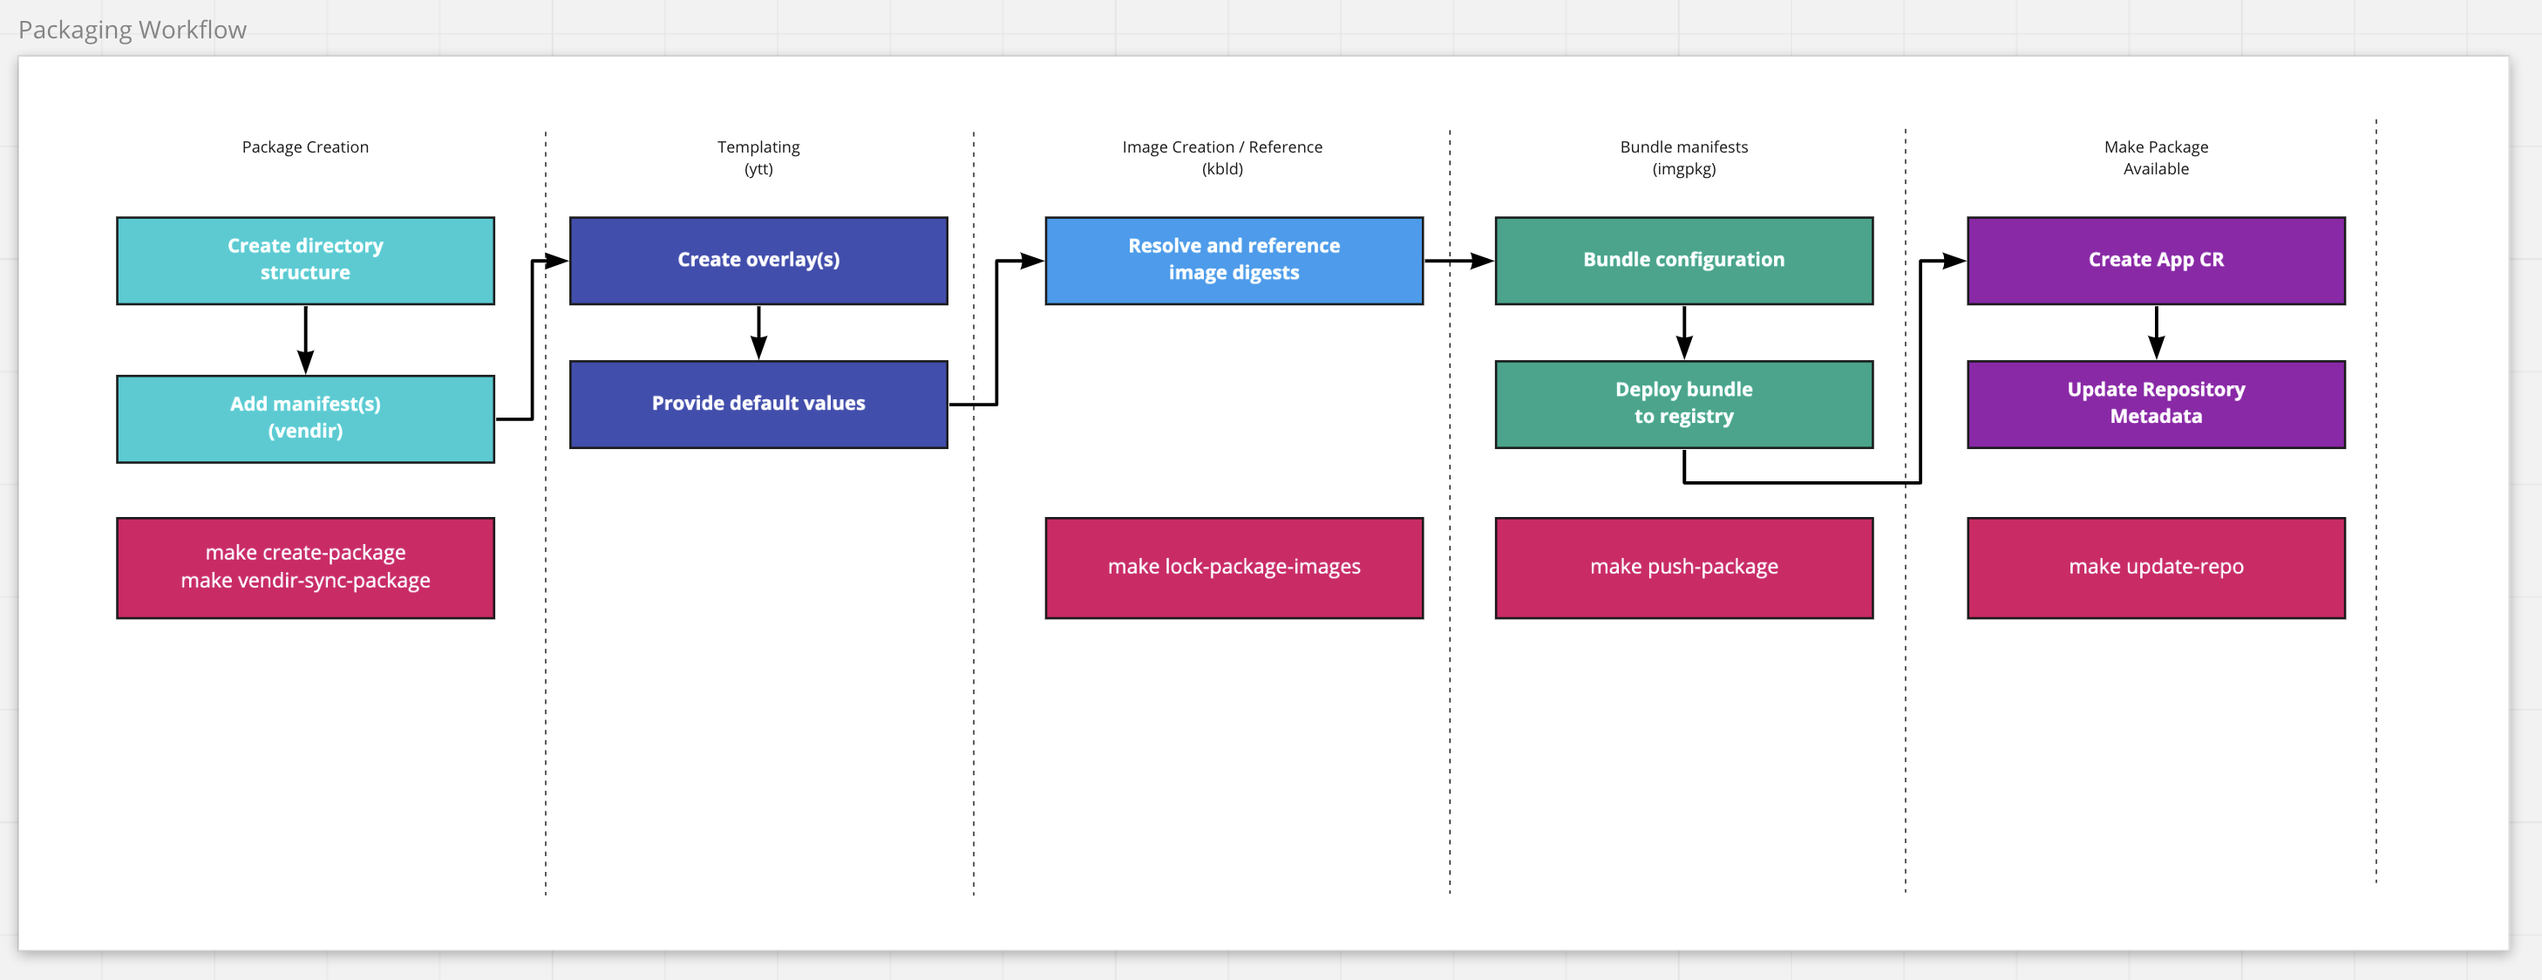
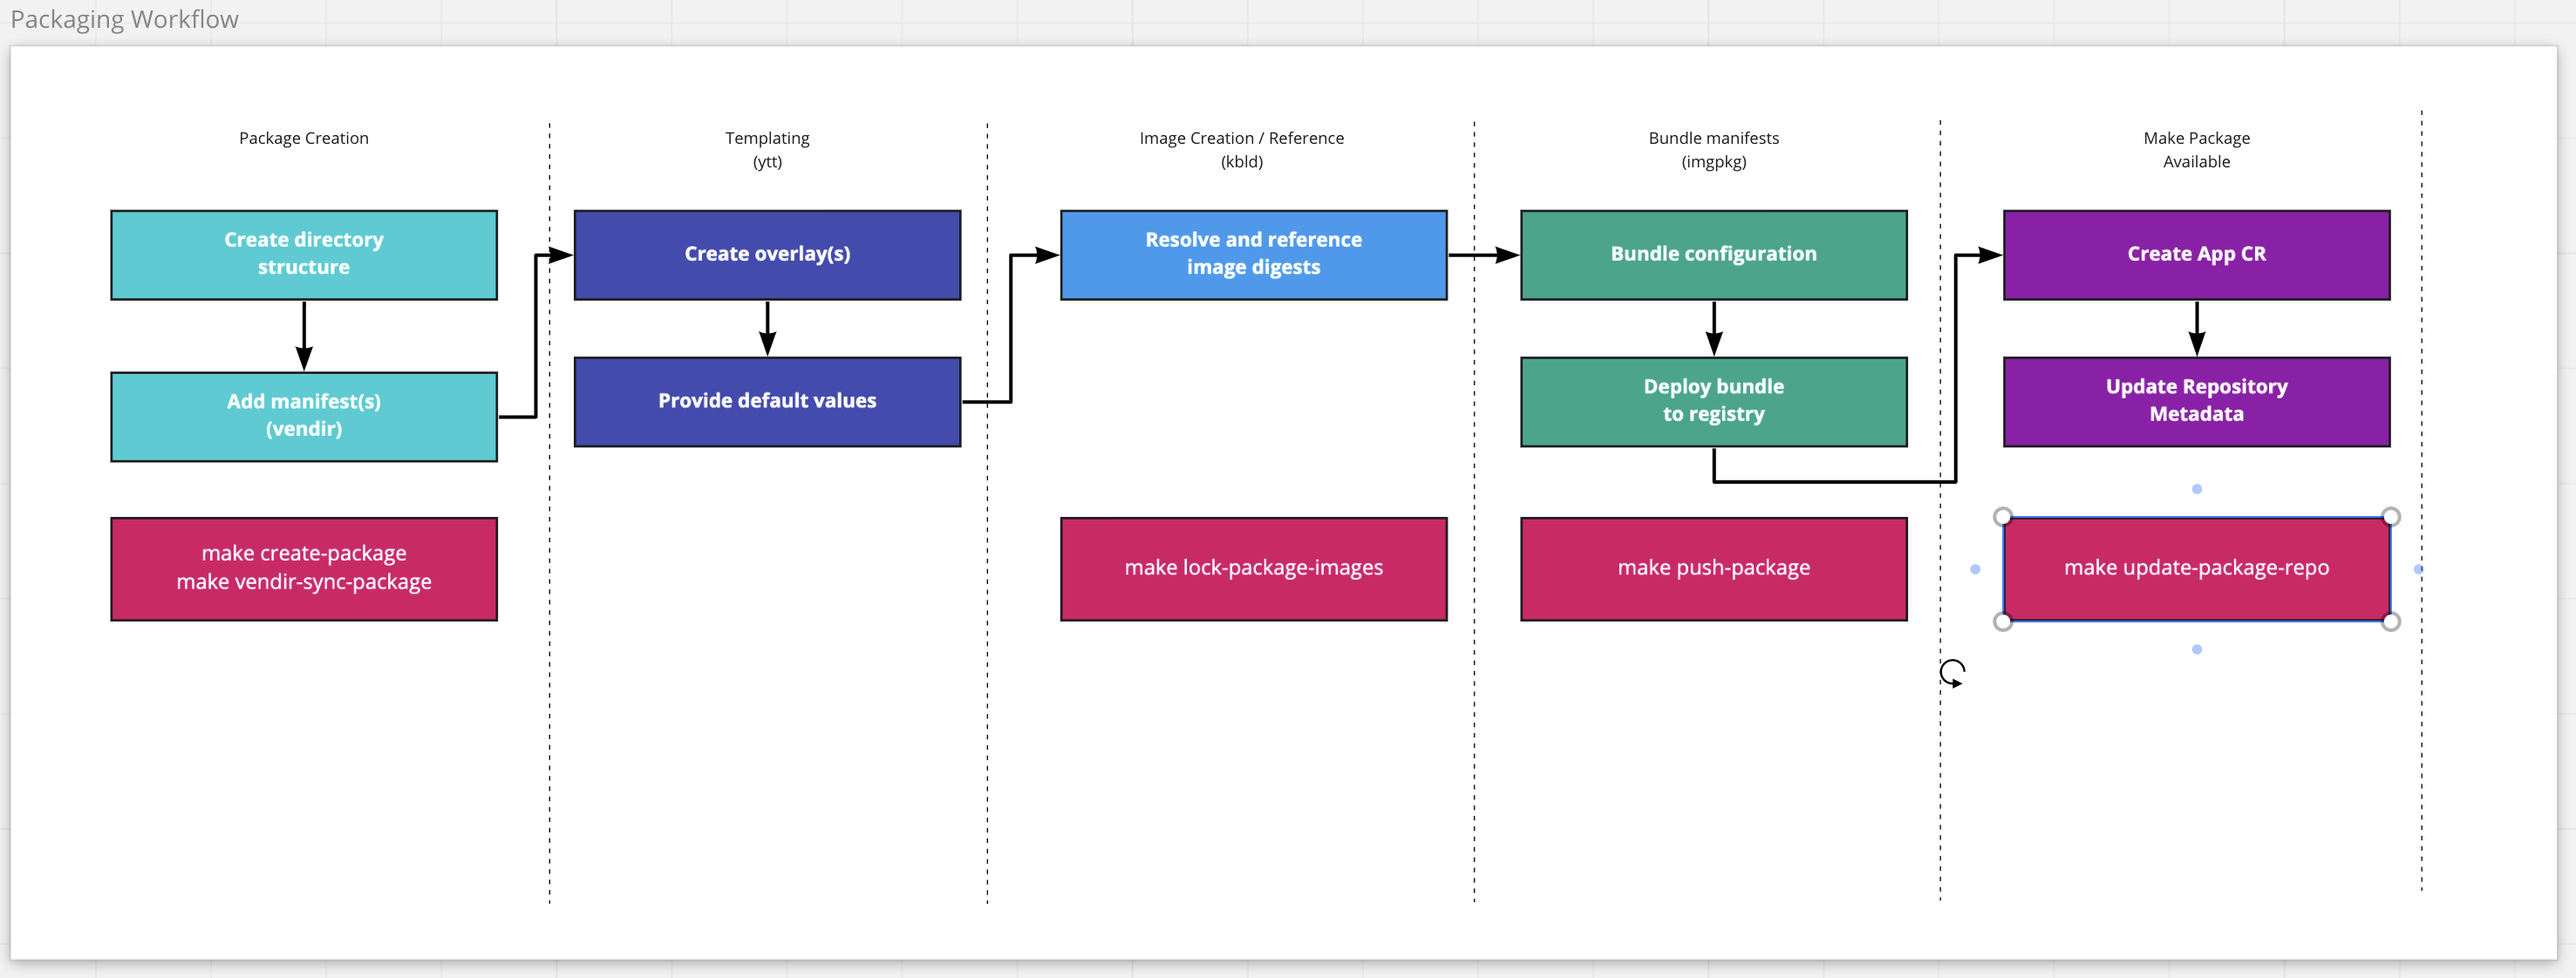
update iamge

diff --git a/docs/designs/package-and-repository-operations.md b/docs/designs/package-and-repository-operations.md
@@ -6,8 +6,6 @@ The process for creating a package is outlined in the [Tanzu Addon Packaging](./
 
 Below is an annotated version of the process flow from the [Tanzu Addon Packaging](./tanzu-addon-packaging.md) document. It maps tasks to steps in the process.
 
->_TODO: Update this diagram_
-
 ![Package Workflow](../images/tanzu-packaging-workflow-with-commands.png)
 
 ## Initial Package Creation
